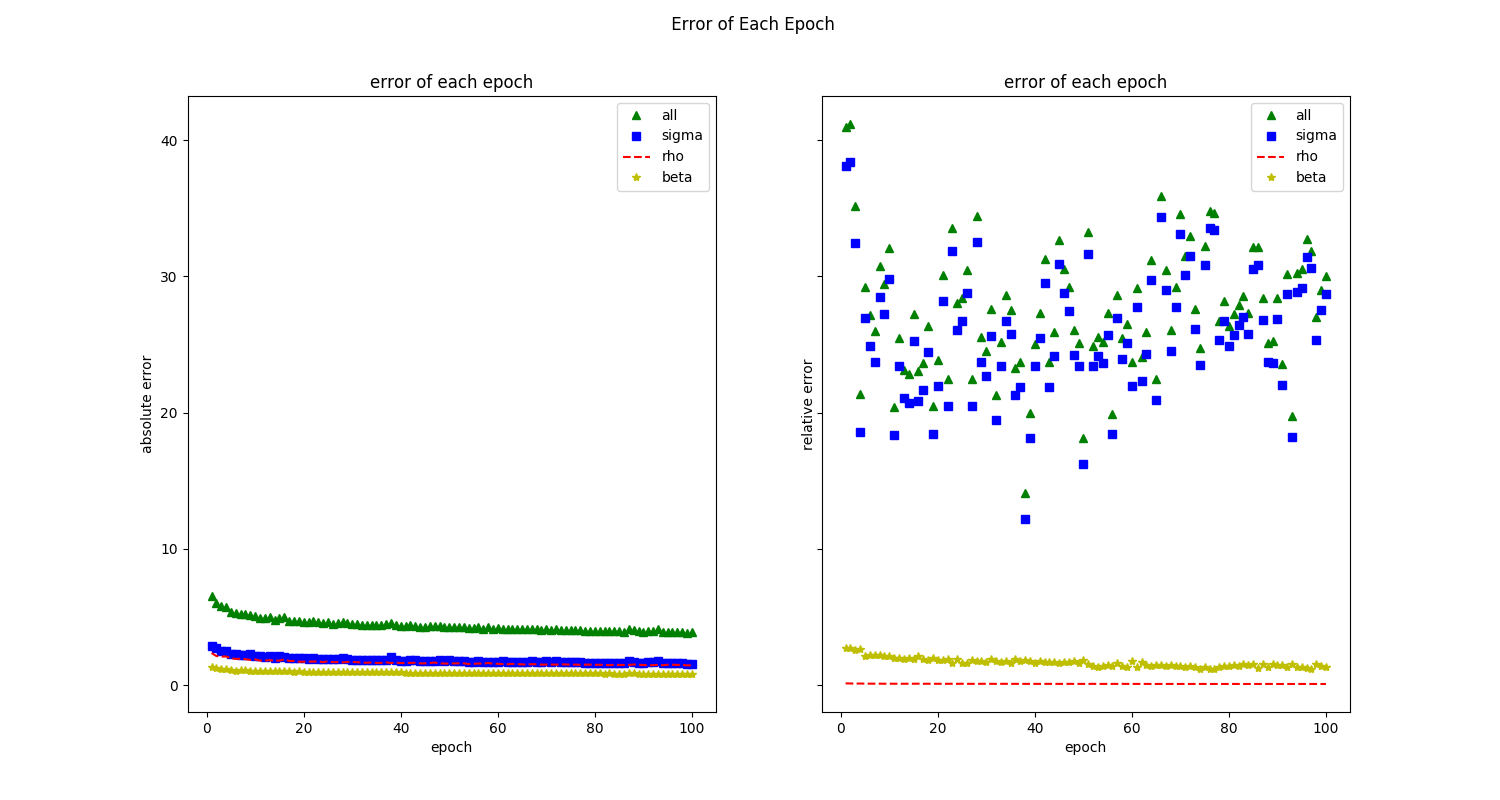
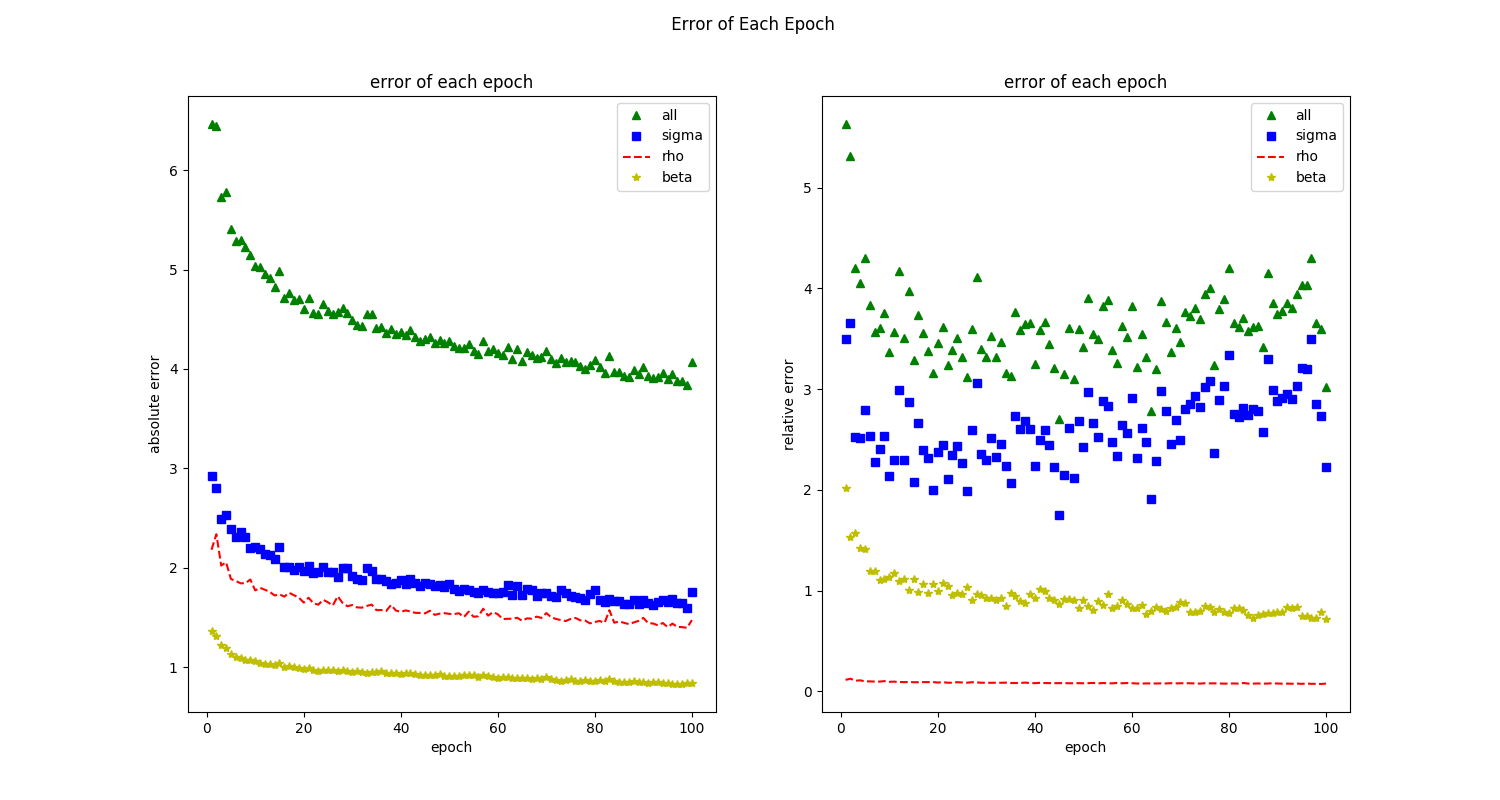
first virsion

diff --git a/lorenz_nn.py b/lorenz_nn.py
@@ -101,9 +101,9 @@ class MSRELoss(nn.Module):
 model = MLP().cuda()
 # difine the loss function
 # using MSELOSS: 
-loss_fn = nn.MSELoss(reduction='sum').cuda()
+#loss_fn = nn.MSELoss(reduction='sum').cuda()
 # using mean squared relative error loss function(MSRELoss)
-#loss_fn = MSRELoss().cuda()
+loss_fn = MSRELoss().cuda()
 
 # define the hyperparameters
 learning_rate = 1e-5
@@ -136,7 +136,6 @@ rela_error_beta_lastep = []
 for t in range(EPOCH):
     #training
     batch_num = int(np.ceil(total_samples / batch_size))
-    print(batch_num)
     shuffled = np.arange(total_samples)
     np.random.shuffle(shuffled)
     total_loss = 0
@@ -237,18 +236,8 @@ for t in range(EPOCH):
     rela_error_rho.append(mean_rela_error_rho)
     rela_error_beta.append(mean_rela_error_beta)
 
-
-print(error_all)
-print(error_sigma)
-print(error_rho)
-print(error_beta)
-print(rela_error_all)
-print(rela_error_sigma)
-print(rela_error_rho)
-print(rela_error_beta)
-
 #Plot the results of all epochs
-fig1, (ax1, ax2) = plt.subplots(1,2, sharex=True, sharey = True, figsize=(15, 8))
+fig1, (ax1, ax2) = plt.subplots(1,2, sharex=True, figsize=(15, 8))
 fig1.suptitle(' Error of Each Epoch')
 epochs = np.arange(1, EPOCH+1)
 
@@ -273,7 +262,7 @@ ax2.set_xlabel('epoch')
 ax2.set_ylabel('relative error')
 
 #Plot the absolute errors of last epoch
-fig2, ((ax1, ax2), (ax3, ax4)) = plt.subplots(nrows=2, ncols=2, sharex=True, sharey=True, figsize=(15, 8))
+fig2, ((ax1, ax2), (ax3, ax4)) = plt.subplots(nrows=2, ncols=2, sharex=True, figsize=(15, 8))
 fig2.suptitle('Absolute Error of Each Sample in The Lase Epoch')
 
 samples = np.arange(1, total_samples+1)
@@ -305,7 +294,7 @@ ax4.set_ylabel('absolute error')
 
 
 #Plot the relative errors of last epoch
-fig3, ((ax1, ax2), (ax3, ax4)) = plt.subplots(nrows=2, ncols=2, sharex=True, sharey=True, figsize=(15, 8))
+fig3, ((ax1, ax2), (ax3, ax4)) = plt.subplots(nrows=2, ncols=2, sharex=True, figsize=(15, 8))
 fig3.suptitle('Relative Error of Each Sample in The Lase Epoch')
 samples = np.arange(1, total_samples+1)
 
@@ -335,9 +324,9 @@ ax4.set_xlabel('samples')
 ax4.set_ylabel('relative error')
 
 
-fig1.savefig(os.path.join(my_results_path_epoch100, 'all_par0'))
-fig2.savefig(os.path.join(my_results_path_epoch100, 'last_abo_par0'))
-fig3.savefig(os.path.join(my_results_path_epoch100, 'last__rela_par0'))
+fig1.savefig(os.path.join(my_results_path_epoch100, 'all_par2'))
+fig2.savefig(os.path.join(my_results_path_epoch100, 'last_abo_par2'))
+fig3.savefig(os.path.join(my_results_path_epoch100, 'last__rela_par2'))
 
 """
 plt.figure(1)
